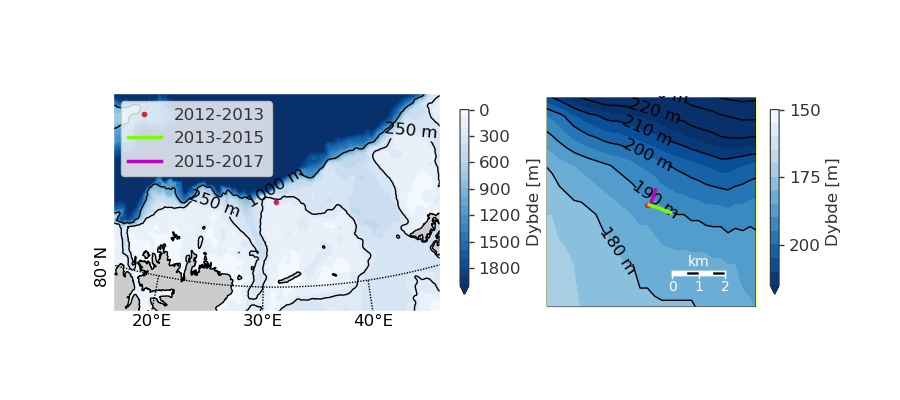
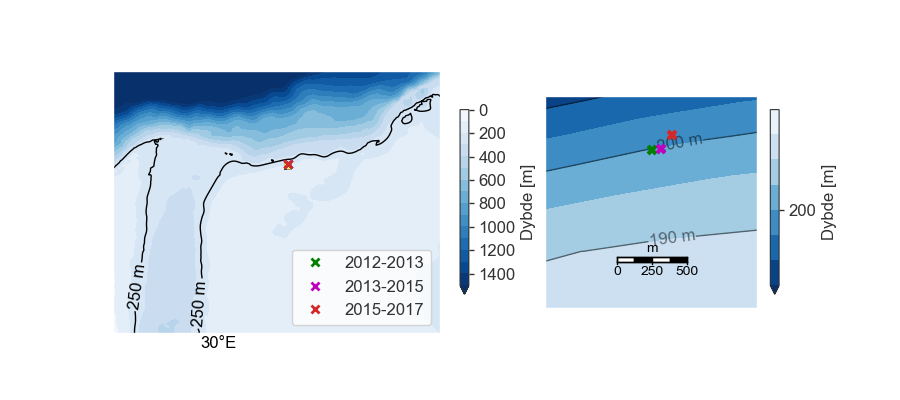
Updated the *mooring location* page.

diff --git a/9f19ac03e190caa194ca96d0551156034d5f335b/searchindex.js b/9f19ac03e190caa194ca96d0551156034d5f335b/searchindex.js
@@ -1,1 +1,1 @@
-Search.setIndex({docnames:["index","projects/argo_barents/argo_barents","projects/arven_etter_nansen/arven_etter_nansen","projects/atwain/annet/ao_index","projects/atwain/annet/mooring_location","projects/atwain/annet/mooring_ts","projects/atwain/annet/roms_model_overview","projects/atwain/annet/sea_ice_animation","projects/atwain/annet/sea_ice_drift","projects/atwain/annet/sea_ice_drift_compare","projects/atwain/annet/seaice_200m","projects/atwain/annet/seasonality","projects/atwain/annet/spectra_etc","projects/atwain/annet/svalbard_konferanse","projects/atwain/atwain","projects/atwain/data","projects/projects"],envversion:{"sphinx.domains.c":1,"sphinx.domains.changeset":1,"sphinx.domains.citation":1,"sphinx.domains.cpp":1,"sphinx.domains.javascript":1,"sphinx.domains.math":2,"sphinx.domains.python":1,"sphinx.domains.rst":1,"sphinx.domains.std":1,"sphinx.ext.intersphinx":1,"sphinx.ext.todo":1,sphinx:56},filenames:["index.rst","projects/argo_barents/argo_barents.rst","projects/arven_etter_nansen/arven_etter_nansen.rst","projects/atwain/annet/ao_index.rst","projects/atwain/annet/mooring_location.rst","projects/atwain/annet/mooring_ts.rst","projects/atwain/annet/roms_model_overview.rst","projects/atwain/annet/sea_ice_animation.rst","projects/atwain/annet/sea_ice_drift.rst","projects/atwain/annet/sea_ice_drift_compare.rst","projects/atwain/annet/seaice_200m.rst","projects/atwain/annet/seasonality.rst","projects/atwain/annet/spectra_etc.rst","projects/atwain/annet/svalbard_konferanse.rst","projects/atwain/atwain.rst","projects/atwain/data.rst","projects/projects.rst"],objects:{},objnames:{},objtypes:{},terms:{"105db":15,"200m":15,"200m_point":10,"2015_2017deploy":15,"25x25":8,"28e":8,"31d":7,"31e":4,"35e":8,"3x3":8,"81n":[4,8],"82n":8,"\u00f8yvind":0,"abstract":14,"b\u00f8ye":1,"break":13,"default":8,"export":6,"f\u00f8rste":1,"float":16,"forel\u00f8pig":15,"import":6,"long":[6,13],"short":6,"troms\u00f8":[],"try":[],"var":15,"while":[],For:0,Ice:[8,10],Near:10,The:[8,10,13],There:10,Using:10,_int:15,_int_1d:15,_sst:15,_sst_int:15,_sst_int_1d:15,about:6,across:8,adcp:15,addit:[8,10],advanc:6,advect:13,after:[8,9],air:7,albert:10,all:[6,8,15],along:[6,8,13,14],also:[7,8,12,13],analysi:13,andvord:[],angelica:13,angelika:[],anim:14,answer:[],antarct:[],app:8,approxim:7,arctic:[13,14],area:[5,6,8,9,10],argo:16,arild:13,around:6,arrai:13,arven:16,ascat:8,ask:[],atlant:13,atmospher:13,atwain2012_allcats_process:15,atwain2013_microcats_interpolated_sst:15,atwain2015_microcats_interpolated_sst:15,atwain2015_microcats_process:15,atwain:[5,8,9,10,15],atwain_200m_latlon:[],atwain_datasets_overview:15,autumn:13,avail:8,averag:[5,6,8,12,15],avergag:12,avg:15,background:[],bai:[],band:12,barent:[6,16],barentshavet:1,baroclin:6,barotrop:6,base:10,basin:6,bathi:10,bathymetr:7,bathymetri:10,been:[8,13],befor:10,begynn:15,benefici:[],berner:6,between:[4,5,7,8,10,12,13],bilinear:10,black:6,blit:15,blitt:15,bloom:[],blue:9,both:[4,13],bottom:12,boundari:9,boxcar:10,broader:[],bruker:15,budget:8,bunch:10,calcul:8,cell:8,cersat:8,character:[],chosen:6,circul:[],coastal:[],code:[5,8,9,10,15],collabor:0,combine_curr:15,combined_adcp:15,compar:[13,14],compare_thre:9,compare_u_v_atwain:8,comparison:9,complex:12,compon:[8,12],comprehens:[],comput:[6,9,12],concentr:[5,10,12],condit:[],confer:14,connect:[],contain:[0,10],content:[0,5,7],continent:[6,13],contour:[7,14],contrast:[],coordin:[4,8],corner:8,correl:9,correspond:13,could:5,couldn:4,cover:13,coverag:[6,10],cpd:12,create_grid_box:[8,9],cross:[6,7],cruis:4,ctd:15,ctd_105db_combin:15,current:[5,13],daacdata:8,dai:[6,8,10,12],daili:[6,7,8,10],dash:7,data:[8,9,10,14],dataset:[8,10],decad:13,deep:[],defin:8,define_box_area:8,denn:15,densiti:[5,12],dep:4,deploy:[10,14],depth:[5,6,7,12],despit:[],det:15,develop:13,deviat:6,dfast:6,differ:[5,12,14],difficult:10,direct:8,directli:10,disk:6,diskrepans:15,distanc:10,diurnal:12,dmsp:10,doe:[],doesn:6,domain:[6,8],domin:[],done:10,dot:6,drift:[5,7,14],driven:13,driver:13,due:10,dure:14,dybd:15,each:[6,8],earli:13,earlier:13,eas:8,easili:6,eastward:13,ecosystem:[],edg:13,effect:[],eidam:[],either:10,eks:15,enclos:8,energet:[],enkel:15,enkelt:15,enkelttidsseri:15,environ:[],episod:[],era:7,error:5,estim:[8,9],eta:6,etc:[6,14],etopo1:[7,10],etter:16,european:13,even:6,evenli:8,event:13,everyth:6,evolut:12,exampl:6,exchang:[],fairli:8,fast:15,felten:15,fenrir:6,fft:12,field:[6,8,10],figur:9,file:[6,9,10],filen:15,fill:8,filter:15,find:4,finn:15,first:[4,13],five:13,fjord:6,fjordeco:[],flow:[],flush:[],flux:[6,9,13],folder:0,format:13,fra:15,fran:6,franz:10,fresh:6,freshwat:6,from:[4,7,8,10,12],ftp:8,full:10,gener:[9,10],geograph:8,gerlach:[],give:[6,10],glacial:[],glacier:[],glacio:[],good:8,gradient:10,green:10,grid:[6,8,9,10,15],griddet:15,handpick:10,har:15,has:13,have:8,heat:[5,7,13],hele:15,home:[8,10],horizont:6,http:8,hver:15,hvor:15,hydrograph:13,ice:[5,6,12,13,14],ifrem:[7,9],ifremer_bound_flux:8,implicitli:6,imr:[],includ:[0,6],indek:15,indic:8,infer:8,inflow:13,influenc:[],initi:14,inkludert:15,input:[],insid:[],instrument:15,integr:8,interannu:13,interest:[0,10],interfac:6,interim:7,interp:[8,9],interp_ifrem:8,interp_nsidc:8,interplai:13,interpol:9,interpolate_sic_onto_path:10,interpoler:15,interpolert:15,ipgrid:8,ipgrid_larg:9,ipgrid_mid:9,ipgrid_smal:9,isobath:10,isol:[],its:10,jevnt:15,josef:10,jozef:6,just:[],katabat:[],kikk:[1,15],kind:[],kombiner:15,kompanser:15,koordinat:[],kun:15,lack:[],lagret:[],land:[6,10],larg:[6,9,10,13],largest:13,lat:[4,8,9],later:0,layer:6,left:10,legger:15,ligger:15,like:6,line:[4,7],link:6,litt:15,local:[8,10,13],locat:[6,7,8,10,14],lon:[4,8,9],longev:13,look:8,lower:[6,8],lpfed:7,magnitud:8,mai:0,major:13,make:8,map:7,mappen:15,marin:[],mass:[],mat:15,match:8,materi:0,matris:15,matter:[],mean:[8,9],med:15,medforfatt:[],mellom:15,melt:13,meltwat:[],ment:15,merg:8,meridian:8,meridion:8,microcat:15,mid:9,middl:12,midlertidig:15,might:[],min:15,miss:8,mix:[6,13],model:14,monitor:13,moor:[7,8,10,13,14,15],mooring_t:5,moot:10,more:0,motion:8,much:6,nansen:[6,16],nativ:8,need:4,net:[5,8,14],network:6,noen:15,north:[10,13],northern:6,note:[4,5],now:0,npi:[],nsidc0116_icemotion_vectors_v4:8,nsidc:[7,9],nsidc_bound_flux:8,nsidc_subset_atwain:10,number:10,observ:13,obtain:8,occasion:[],ocean:[5,7,13],oceanograph:[],oceanographi:[],onli:0,onto:[8,9,10],orang:7,order:8,org:8,other:[8,9,10],outsid:[],over:[12,13,15],overlap:12,overview:14,oyvindl:[8,10],oyweb:0,pack:13,page:0,parallel:8,partial:[],particular:13,pathfind:8,pdf:1,peninsula:[],peopl:[],perform:12,perioden:15,persist:13,person:0,physic:[],phytoplankton:[],pick_points_200m:10,plai:13,plot:[4,7,8,10],point:[6,8,10],polar:[8,10],poster:13,potenti:[],power:12,prefer:13,preliminari:5,presenc:13,present:[8,13],presenter:[],prevent:13,previou:[8,10],process:[5,13],processed_mooring_data:15,processing_and_data:[8,9,15],produc:8,product:[7,9,10],produser:15,profil:15,project:0,prosjekt:[],provid:[],psi:8,pub:8,punkt:15,q_curr_other_panel:5,q_vs_a:5,qualit:8,quantiti:[6,7],question:[],quick:[4,5,9],quick_compare_thre:9,randomli:6,rapport:1,rather:6,read:4,real:10,rec:4,recent:13,record:7,recoveri:4,rectangular:8,red:[6,7,9,10],ref:4,refer:8,region:[6,13],regridd:10,reinterpoler:15,rel:8,remot:10,remov:10,renner:[],report:4,resolusjon:15,resolut:6,result:8,retningen:15,retreat:13,rigg:[],riggen:15,right:10,ring:10,role:13,rom:14,roms_runs_norsea:6,rotari:12,rotat:8,roughli:10,run:[6,8,15],rundt:15,runoff:[],s800_2014:6,same:9,samm:15,sammen:15,sammenheng:15,save:[8,10],scale:14,scienc:14,script:[5,8],sea:[5,6,12,13,14,16],sea_ice_concentr:10,sea_ice_drift:[8,9],season:[13,14],sec:10,second:[6,10],see:5,semi:12,seminar:[],sensor:15,sep:4,separ:8,ser:15,seri:[7,14],session:13,set:8,shallow:6,share:6,sheet:[],shelf:13,shipboard:[],should:6,show:8,shown:[7,12],shrink:13,sic:[7,10],sic_200m_path:10,sid:9,sim:12,similar:8,simpl:8,sinc:[6,13],size:6,skal:[],skiften:15,slope:[6,13],small:9,smooth:10,solid:[],som:15,some:13,sourc:[8,13],space:[6,8,10],span:[6,8,10],spectra:14,spectral:12,spectrogram:12,speed:12,spitsbergen:10,ssm:10,ssmi:[8,10],sst:[6,15],standard:6,state:14,step:6,stereograph:8,store:[8,10],strait:[],stretch:6,strong:[],struktur:15,subset:0,sum:8,summer:13,survei:[],svalbard:[6,10,14],talk:[],temperatur:7,term:[6,8,13],terrestri:[],therefor:10,theta_:6,theta_b:6,thi:[0,4,5,8,10],think:6,three:9,through:8,tidal:[],tidewat:[],tidsseri:15,tidsserien:15,til:15,tillegg:15,time:[0,4,6,7,9,12,14],toktrapport:[],top:12,topic:[],total:10,transport:13,tre:15,twain:[6,7,16],two:4,unexplor:[],uniformt:15,updat:4,upper:[6,8,13],use:8,used:9,usikk:15,using:[9,10],utplass:[],utplasseringen:15,valu:8,variabl:[13,15],variat:[],vector:[7,8],veloc:[6,8,12],veri:6,vertic:[6,12,13],vertik:15,video:[6,7],vist:15,vortic:6,vstretch:6,vtransform:6,wai:6,warm:[],water:13,weak:[],were:8,west:10,western:[],what:[],where:[4,8],which:0,wide:13,wind:[7,8,12,13],window:[10,12],winter:13,within:[],work:[0,8,10,15],writeup:14,xesmf:10,xlsx:15,year:13,ziegler:[],zom:6,zonal:8},titles:["oyvshare","Barents Sea ARGO float","Arven etter Nansen","AO and Arctic State","Mooring locations during the 3 deployments","Mooring time series, overview","ROMS model overview","Sea ice animation","Sea ice drift","Comparing net sea ice drift on different scales","Sea ice along the 200 m contour","Seasonality","Spectra, etc","Abstract, Svalbard Science Conference 2019","A-TWAIN","Data","Projects"],titleterms:{"abstract":13,"float":1,across:6,adcper:15,along:10,anim:[6,7],annet:[],answer:[],arctic:3,argo:1,arven:2,averag:10,barent:1,boundari:8,box:8,compar:9,comparison:8,comput:8,confer:13,contour:10,cover:10,ctder:15,current:6,data:[6,15],deploy:4,differ:9,drift:[8,9],dure:4,eidam:[],etc:12,etter:2,evolut:10,fjordeco:[],flux:8,ice:[7,8,9,10],ifrem:8,interpol:[8,10],locat:4,look:6,model:6,moor:[4,5],nansen:2,net:9,npi:[],nsidc:8,other:[],oversikt:15,overview:[5,6],oyvshar:0,paramet:6,path:10,product:8,project:16,prosess:15,prosjekt:[],question:[],quick:6,result:10,rom:6,scale:9,scienc:13,sea:[1,7,8,9,10],season:11,seminar:[],seri:5,shear:12,spectra:12,state:3,subset:10,summari:[],svalbard:13,talk:[],temperatur:6,time:[5,10],transect:6,twain:14,utplass:15,valu:6,ziegler:[]}})
+Search.setIndex({docnames:["index","projects/argo_barents/argo_barents","projects/arven_etter_nansen/arven_etter_nansen","projects/atwain/annet/ao_index","projects/atwain/annet/mooring_location","projects/atwain/annet/mooring_ts","projects/atwain/annet/roms_model_overview","projects/atwain/annet/sea_ice_animation","projects/atwain/annet/sea_ice_drift","projects/atwain/annet/sea_ice_drift_compare","projects/atwain/annet/seaice_200m","projects/atwain/annet/seasonality","projects/atwain/annet/spectra_etc","projects/atwain/annet/svalbard_konferanse","projects/atwain/atwain","projects/atwain/data","projects/projects"],envversion:{"sphinx.domains.c":1,"sphinx.domains.changeset":1,"sphinx.domains.citation":1,"sphinx.domains.cpp":1,"sphinx.domains.javascript":1,"sphinx.domains.math":2,"sphinx.domains.python":1,"sphinx.domains.rst":1,"sphinx.domains.std":1,"sphinx.ext.intersphinx":1,"sphinx.ext.todo":1,sphinx:56},filenames:["index.rst","projects/argo_barents/argo_barents.rst","projects/arven_etter_nansen/arven_etter_nansen.rst","projects/atwain/annet/ao_index.rst","projects/atwain/annet/mooring_location.rst","projects/atwain/annet/mooring_ts.rst","projects/atwain/annet/roms_model_overview.rst","projects/atwain/annet/sea_ice_animation.rst","projects/atwain/annet/sea_ice_drift.rst","projects/atwain/annet/sea_ice_drift_compare.rst","projects/atwain/annet/seaice_200m.rst","projects/atwain/annet/seasonality.rst","projects/atwain/annet/spectra_etc.rst","projects/atwain/annet/svalbard_konferanse.rst","projects/atwain/atwain.rst","projects/atwain/data.rst","projects/projects.rst"],objects:{},objnames:{},objtypes:{},terms:{"105db":15,"200m":15,"200m_point":10,"2015_2017deploy":15,"25x25":8,"28e":8,"31d":7,"31e":4,"35e":8,"3x3":8,"81n":[4,8],"82n":8,"\u00f8yvind":0,"abstract":14,"b\u00f8ye":1,"break":13,"default":8,"export":6,"f\u00f8rste":1,"float":16,"forel\u00f8pig":15,"import":6,"long":[6,13],"short":6,"troms\u00f8":[],"try":[],"var":15,"while":[],For:0,Ice:[8,10],Near:10,The:[8,10,13],There:10,Using:10,_int:15,_int_1d:15,_sst:15,_sst_int:15,_sst_int_1d:15,about:6,across:8,adcp:15,addit:[8,10],advanc:6,advect:13,after:[8,9],air:7,albert:10,all:[6,8,15],along:[6,8,13,14],also:[7,8,12,13],analysi:13,andvord:[],angelica:13,angelika:[],anim:14,answer:[],antarct:[],app:8,approxim:7,arctic:[13,14],area:[5,6,8,9,10],argo:16,arild:13,around:6,arrai:13,arven:16,ascat:8,ask:[],atlant:13,atmospher:13,atwain2012_allcats_process:15,atwain2013_microcats_interpolated_sst:15,atwain2015_microcats_interpolated_sst:15,atwain2015_microcats_process:15,atwain:[5,8,9,10,15],atwain_200m_latlon:[],atwain_datasets_overview:15,autumn:13,avail:8,averag:[5,6,8,12,15],avergag:12,avg:15,background:[],bai:[],band:12,barent:[6,16],barentshavet:1,baroclin:6,barotrop:6,base:10,basin:6,bathi:10,bathymetr:7,bathymetri:[4,10],been:[8,13],befor:10,begynn:15,benefici:[],berner:6,between:[5,7,8,10,12,13],bilinear:10,black:6,blit:15,blitt:15,bloom:[],blue:9,both:13,bottom:12,boundari:9,boxcar:10,broader:[],bruker:15,budget:8,bunch:10,calcul:8,cell:8,cersat:8,character:[],chosen:6,circul:[],coastal:[],code:[5,8,9,10,15],collabor:0,combine_curr:15,combined_adcp:15,compar:[13,14],compare_thre:9,compare_u_v_atwain:8,comparison:9,complex:12,compon:[8,12],comprehens:[],comput:[6,9,12],concentr:[5,10,12],condit:[],confer:14,connect:[],contain:[0,10],content:[0,5,7],continent:[6,13],contour:[7,14],contrast:[],coordin:[4,8],corner:8,correl:9,correspond:13,could:5,couldn:[],cover:13,coverag:[6,10],cpd:12,create_grid_box:[8,9],cross:[6,7],cruis:4,ctd:15,ctd_105db_combin:15,current:[5,13],daacdata:8,dai:[6,8,10,12],daili:[6,7,8,10],dash:7,data:[8,9,10,14],dataset:[8,10],decad:13,deep:[],defin:8,define_box_area:8,denn:15,densiti:[5,12],dep:4,deploy:[10,14],depth:[5,6,7,12],despit:[],det:15,develop:13,deviat:6,dfast:6,differ:[5,12,14],difficult:10,direct:8,directli:10,disk:6,diskrepans:15,distanc:10,diurnal:12,dmsp:10,doe:[],doesn:6,domain:[6,8],domin:[],done:10,dot:6,drift:[5,7,14],driven:13,driver:13,due:10,dure:14,dybd:15,each:[6,8],earli:13,earlier:13,eas:8,easili:6,eastward:13,ecosystem:[],edg:13,effect:[],eidam:[],either:10,eks:15,enclos:8,energet:[],enkel:15,enkelt:15,enkelttidsseri:15,environ:[],episod:[],era:7,error:5,estim:[8,9],eta:6,etc:[6,14],etopo1:[7,10],etter:16,european:13,even:6,evenli:8,event:13,everyth:6,evolut:12,exampl:6,exchang:[],fairli:8,fast:15,felten:15,fenrir:6,fft:12,field:[6,8,10],figur:9,file:[6,9,10],filen:15,fill:8,filter:15,find:[],finn:15,first:13,five:13,fjord:6,fjordeco:[],flow:[],flush:[],flux:[6,9,13],folder:0,format:13,fra:15,fran:6,franz:10,fresh:6,freshwat:6,from:[4,7,8,10,12],ftp:8,full:10,gener:[9,10],geograph:8,gerlach:[],give:[6,10],glacial:[],glacier:[],glacio:[],good:8,gradient:10,green:10,grid:[6,8,9,10,15],griddet:15,handpick:10,har:15,has:13,have:8,heat:[5,7,13],hele:15,home:[8,10],horizont:6,http:8,hver:15,hvor:15,hydrograph:13,ibcao:4,ice:[5,6,12,13,14],ifrem:[7,9],ifremer_bound_flux:8,implicitli:6,imr:[],includ:[0,6],indek:15,indic:8,infer:8,inflow:13,influenc:[],initi:14,inkludert:15,input:[],insid:[],instrument:15,integr:8,interannu:13,interest:[0,10],interfac:6,interim:7,interp:[8,9],interp_ifrem:8,interp_nsidc:8,interplai:13,interpol:9,interpolate_sic_onto_path:10,interpoler:15,interpolert:15,ipgrid:8,ipgrid_larg:9,ipgrid_mid:9,ipgrid_smal:9,isobath:10,isol:[],its:10,jevnt:15,josef:10,jozef:6,just:[],katabat:[],kikk:[1,15],kind:[],kombiner:15,kompanser:15,koordinat:[],kun:15,lack:[],lagret:[],land:[6,10],larg:[6,9,10,13],largest:13,lat:[4,8,9],later:0,layer:6,left:10,legger:15,ligger:15,like:6,line:7,link:6,litt:15,local:[8,10,13],locat:[6,7,8,10,14],lon:[4,8,9],longev:13,look:8,lower:[6,8],lpfed:7,magnitud:8,mai:0,major:13,make:8,map:7,mappen:15,marin:[],mass:[],mat:15,match:8,materi:0,matris:15,matter:[],mean:[8,9],med:15,medforfatt:[],mellom:15,melt:13,meltwat:[],ment:15,merg:8,meridian:8,meridion:8,microcat:15,mid:9,middl:12,midlertidig:15,might:[],min:15,miss:8,mix:[6,13],model:14,monitor:13,moor:[7,8,10,13,14,15],mooring_t:5,moot:10,more:0,motion:8,much:6,nansen:[6,16],nativ:8,need:[],net:[5,8,14],network:6,noen:15,north:[10,13],northern:6,note:5,now:0,npi:[],nsidc0116_icemotion_vectors_v4:8,nsidc:[7,9],nsidc_bound_flux:8,nsidc_subset_atwain:10,number:10,observ:13,obtain:8,occasion:[],ocean:[5,7,13],oceanograph:[],oceanographi:[],onli:0,onto:[8,9,10],orang:7,order:8,org:8,other:[8,9,10],outsid:[],over:[12,13,15],overlap:12,overview:14,oyvindl:[8,10],oyweb:0,pack:13,page:0,parallel:8,partial:[],particular:13,pathfind:8,pdf:1,peninsula:[],peopl:[],perform:12,perioden:15,persist:13,person:0,physic:[],phytoplankton:[],pick_points_200m:10,plai:13,plot:[4,7,8,10],point:[6,8,10],polar:[8,10],poster:13,potenti:[],power:12,prefer:13,preliminari:5,presenc:13,present:[8,13],presenter:[],prevent:13,previou:[8,10],process:[5,13],processed_mooring_data:15,processing_and_data:[8,9,15],produc:8,product:[7,9,10],produser:15,profil:15,project:0,prosjekt:[],provid:[],psi:8,pub:8,punkt:15,q_curr_other_panel:5,q_vs_a:5,qualit:8,quantiti:[6,7],question:[],quick:[4,5,9],quick_compare_thre:9,randomli:6,rapport:1,rather:6,read:[],real:10,rec:[],recent:13,record:7,recoveri:[],rectangular:8,red:[6,7,9,10],ref:[],refer:8,region:[6,13],regridd:10,reinterpoler:15,rel:8,remot:10,remov:10,renner:[],report:4,resolusjon:15,resolut:6,result:8,retningen:15,retreat:13,rigg:[],riggen:15,right:10,ring:10,role:13,rom:14,roms_runs_norsea:6,rotari:12,rotat:8,roughli:10,run:[6,8,15],rundt:15,runoff:[],s800_2014:6,same:9,samm:15,sammen:15,sammenheng:15,save:[8,10],scale:14,scienc:14,script:[5,8],sea:[5,6,12,13,14,16],sea_ice_concentr:10,sea_ice_drift:[8,9],season:[13,14],sec:10,second:[6,10],see:5,semi:12,seminar:[],sensor:15,sep:4,separ:8,ser:15,seri:[7,14],session:13,set:8,shallow:6,share:6,sheet:[],shelf:13,shipboard:[],should:6,show:8,shown:[7,12],shrink:13,sic:[7,10],sic_200m_path:10,sid:9,sim:12,similar:8,simpl:8,sinc:[6,13],size:6,skal:[],skiften:15,slope:[6,13],small:9,smooth:10,solid:[],som:15,some:13,sourc:[8,13],space:[6,8,10],span:[6,8,10],spectra:14,spectral:12,spectrogram:12,speed:12,spitsbergen:10,ssm:10,ssmi:[8,10],sst:[6,15],standard:6,state:14,step:6,stereograph:8,store:[8,10],strait:[],stretch:6,strong:[],struktur:15,subset:0,sum:8,summer:13,survei:[],svalbard:[6,10,14],taken:4,talk:[],temperatur:7,term:[6,8,13],terrestri:[],therefor:10,theta_:6,theta_b:6,thi:[0,5,8,10],think:6,three:9,through:8,tidal:[],tidewat:[],tidsseri:15,tidsserien:15,til:15,tillegg:15,time:[0,4,6,7,9,12,14],toktrapport:[],top:12,topic:[],total:10,transport:13,tre:15,twain:[6,7,16],two:[],unexplor:[],uniformt:15,updat:[],upper:[6,8,13],use:8,used:9,usikk:15,using:[9,10],utplass:[],utplasseringen:15,valu:8,variabl:[13,15],variat:[],vector:[7,8],veloc:[6,8,12],veri:6,vertic:[6,12,13],vertik:15,video:[6,7],vist:15,vortic:6,vstretch:6,vtransform:6,wai:6,warm:[],water:13,weak:[],were:8,west:10,western:[],what:[],where:8,which:0,wide:13,wind:[7,8,12,13],window:[10,12],winter:13,within:[],work:[0,8,10,15],writeup:14,xesmf:10,xlsx:15,year:13,ziegler:[],zom:6,zonal:8},titles:["oyvshare","Barents Sea ARGO float","Arven etter Nansen","AO and Arctic State","Mooring locations during the 3 deployments","Mooring time series, overview","ROMS model overview","Sea ice animation","Sea ice drift","Comparing net sea ice drift on different scales","Sea ice along the 200 m contour","Seasonality","Spectra, etc","Abstract, Svalbard Science Conference 2019","A-TWAIN","Data","Projects"],titleterms:{"abstract":13,"float":1,across:6,adcper:15,along:10,anim:[6,7],annet:[],answer:[],arctic:3,argo:1,arven:2,averag:10,barent:1,boundari:8,box:8,compar:9,comparison:8,comput:8,confer:13,contour:10,cover:10,ctder:15,current:6,data:[6,15],deploy:4,differ:9,drift:[8,9],dure:4,eidam:[],etc:12,etter:2,evolut:10,fjordeco:[],flux:8,ice:[7,8,9,10],ifrem:8,interpol:[8,10],locat:4,look:6,model:6,moor:[4,5],nansen:2,net:9,npi:[],nsidc:8,other:[],oversikt:15,overview:[5,6],oyvshar:0,paramet:6,path:10,product:8,project:16,prosess:15,prosjekt:[],question:[],quick:6,result:10,rom:6,scale:9,scienc:13,sea:[1,7,8,9,10],season:11,seminar:[],seri:5,shear:12,spectra:12,state:3,subset:10,summari:[],svalbard:13,talk:[],temperatur:6,time:[5,10],transect:6,twain:14,utplass:15,valu:6,ziegler:[]}})

diff --git a/9f19ac03e190caa194ca96d0551156034d5f335b/projects/atwain/annet/mooring_location.html b/9f19ac03e190caa194ca96d0551156034d5f335b/projects/atwain/annet/mooring_location.html
@@ -12,6 +12,7 @@
     <script type="text/javascript" src="../../../_static/underscore.js"></script>
     <script type="text/javascript" src="../../../_static/doctools.js"></script>
     <script type="text/javascript" src="../../../_static/language_data.js"></script>
+    <script async="async" type="text/javascript" src="https://cdnjs.cloudflare.com/ajax/libs/mathjax/2.7.5/latest.js?config=TeX-AMS-MML_HTMLorMML"></script>
     <link rel="index" title="Index" href="../../../genindex.html" />
     <link rel="search" title="Search" href="../../../search.html" />
     <link rel="next" title="Mooring time series, overview" href="mooring_ts.html" />
@@ -34,14 +35,7 @@
             
   <div class="section" id="mooring-locations-during-the-3-deployments">
 <h1>Mooring locations during the 3 deployments<a class="headerlink" href="#mooring-locations-during-the-3-deployments" title="Permalink to this headline">¶</a></h1>
-<p>Quick plot of the mooring location (reading coordinates from cruise reports).
-Where there are both deployment and recovery coordinates, I’ve plotted a line
-between the two.</p>
-<p><em>Couldn’t find recovery coordinates for the first deployment?</em></p>
-<div class="figure align-default">
-<a class="reference internal image-reference" href="../../../_images/map_moorings.png"><img alt="../../../_images/map_moorings.png" src="../../../_images/map_moorings.png" style="width: 150%;" /></a>
-</div>
-<p>200-m mooring coordinates ref. cruise reports. <em>(Note: need to update this!)</em>:</p>
+<p>200-m mooring coordinates taken from  cruise reports:</p>
 <table class="docutils align-default">
 <colgroup>
 <col style="width: 24%" />
@@ -59,21 +53,11 @@ between the two.</p>
 <tbody>
 <tr class="row-even"><td><p>D1 (dep)</p></td>
 <td><p>16 Sep 12</p></td>
-<td><p>81N 24.18’</p></td>
-<td><p>31E 13.05’</p></td>
+<td><p>81N 24.2’</p></td>
+<td><p>31E 13.02’</p></td>
 </tr>
-<tr class="row-odd"><td><p>D1 (rec)</p></td>
-<td><p>Sep 13?</p></td>
-<td><p>?</p></td>
-<td><p>?</p></td>
-</tr>
-<tr class="row-even"><td><p>D2 (dep)</p></td>
+<tr class="row-odd"><td><p>D2 (dep)</p></td>
 <td><p>22 Sep 13</p></td>
-<td><p>81N 24.04’</p></td>
-<td><p>31E 16.15’</p></td>
-</tr>
-<tr class="row-odd"><td><p>D2 (rec)</p></td>
-<td><p>19 Sep 15</p></td>
 <td><p>81N 24.202’</p></td>
 <td><p>31E 13.247’</p></td>
 </tr>
@@ -82,13 +66,13 @@ between the two.</p>
 <td><p>81N 24.255’</p></td>
 <td><p>31E 13.533’</p></td>
 </tr>
-<tr class="row-odd"><td><p>D3 (rec)</p></td>
-<td><p>17 Sep 17</p></td>
-<td><p>81N 24.255’</p></td>
-<td><p>31E 13.533’</p></td>
-</tr>
 </tbody>
 </table>
+<p>Quick plot of the mooring locations:</p>
+<div class="figure align-default" id="id1">
+<a class="reference internal image-reference" href="../../../_images/map_moorings.png"><img alt="../../../_images/map_moorings.png" src="../../../_images/map_moorings.png" style="width: 150%;" /></a>
+<p class="caption"><span class="caption-text">Mooring deployment locations plotted on <em>IBCAO v3</em> 500 m x 500 m bathymetry.</span><a class="headerlink" href="#id1" title="Permalink to this image">¶</a></p>
+</div>
 </div>
 
 
